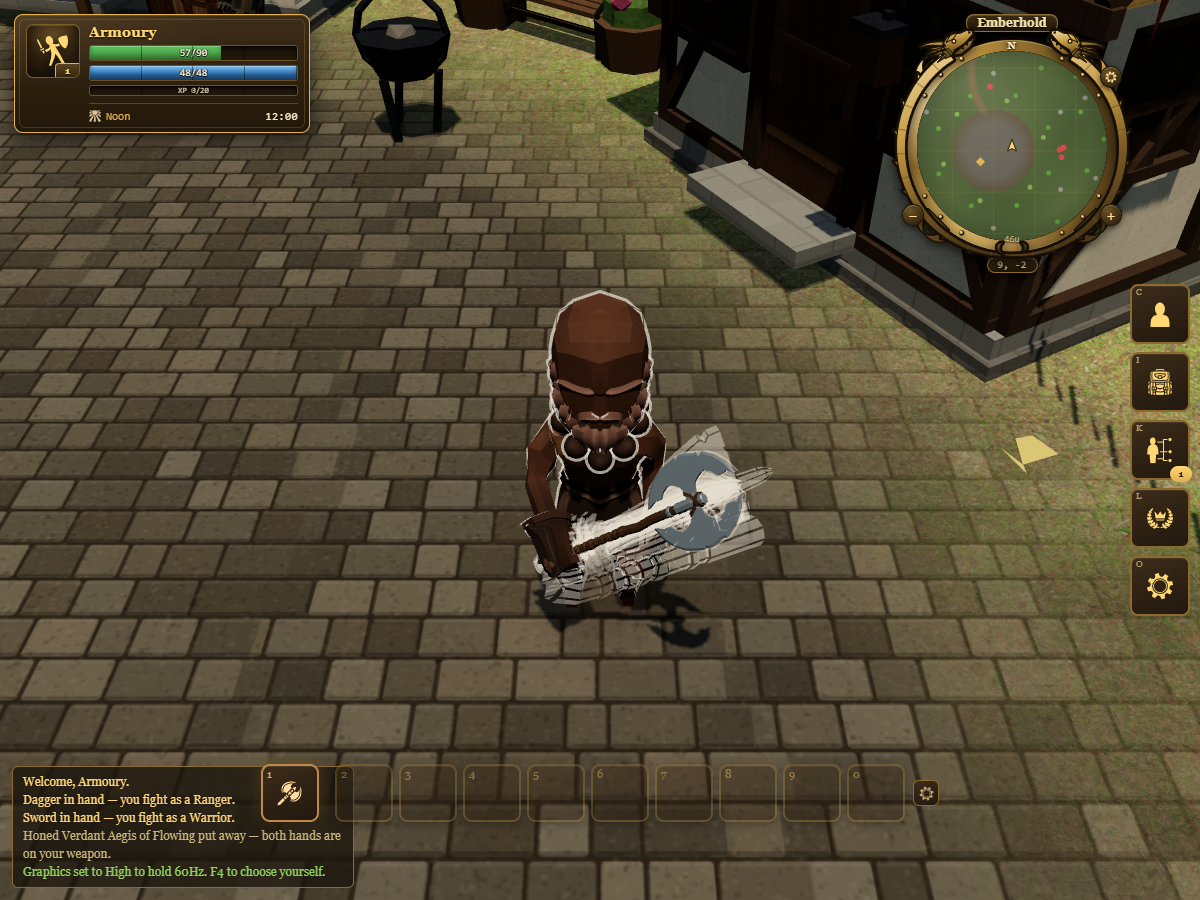
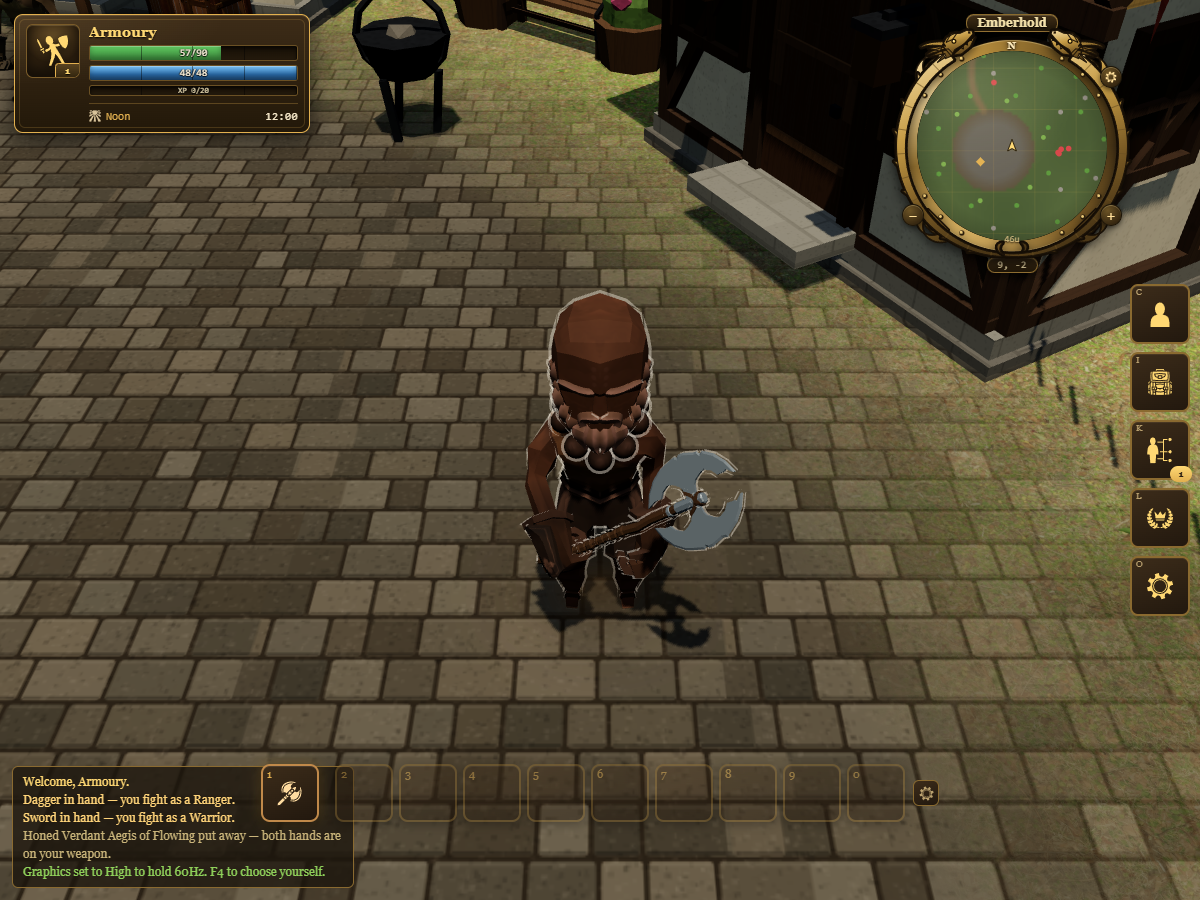
M70.220: the wizard staff was held by its head
Measured both poses across all 29 weapon models. Idle: nothing points at its
owner. Swing: 18 of 23 do at some point, which is the wind-up — every melee
weapon shares one clip and they bottom out together between -0.78 and -0.87,
the donor sword included, so no weapon is an outlier there.

In idle one is. Every weapon carries its far end up and away at up ~ +0.5;
rig:Wizard/Wizard_Staff read -0.84, hanging down with the orb at the fist and
the butt pointing at the floor.

The cause: donorGrip takes the socket from Warrior_Sword, so every right-hand
weapon parents to the Warrior's bone, and a rig: model keeps its own local
transform instead of being re-fitted. That is right for the Warrior's own
sword and an assumption for anything harvested off another body. The Ranger's
bow survives the move; the Wizard's staff does not.

Flipped via RIG_FLIP rather than re-fitted, since fitToGrip would also
renormalise its length and the mesh is otherwise correct. Now +0.55 up, in
line with every other weapon. Three bases use the model and four wands are
built from it.

The contact sheet that showed it was unusable until M70.219: captured while
hulls still accumulated, the staff frame was buried under stale silhouettes.

Suite 45/45.

diff --git a/client/src/three/gear.ts b/client/src/three/gear.ts
@@ -732,6 +732,17 @@ export async function buildHeldItem(
 }
 
 /**
+ * Rig-harvested meshes that need turning end for end, and the axis to turn on.
+ *
+ * See the note where this is applied. Only meshes taken off a body OTHER than
+ * the grip donor can need it, and only when that body's socket disagrees with
+ * the Warrior's.
+ */
+const RIG_FLIP: Record<string, [number, number, number]> = {
+  "rig:Wizard/Wizard_Staff": [1, 0, 0],
+};
+
+/**
  * Length relative to the donor sword, per weapon family.
  *
  * See the note where this is applied. `fitToGrip` deliberately gives every
@@ -786,6 +797,28 @@ async function makeHeldItem(
     mesh.position.copy(donor.position);
     mesh.quaternion.copy(donor.quaternion);
     mesh.scale.copy(donor.scale);
+    // A HARVESTED MESH KEEPS A TRANSFORM AUTHORED FOR ITS OWN RIG, AND WE HANG
+    // IT ON SOMEBODY ELSE'S BONE.
+    //
+    // `donorGrip` takes the socket from `Warrior_Sword`, so every right-hand
+    // weapon is parented to the WARRIOR's weapon bone. That is exactly right for
+    // the Warrior's own sword, whose local transform was authored against it,
+    // and it is an assumption for anything harvested off another body: the
+    // Wizard's staff and the Ranger's bow carry transforms that mean something
+    // relative to THEIR sockets.
+    //
+    // The Wizard's staff does not survive the move. Measured across all 29
+    // models, every weapon in the game points its far end up and away — an `up`
+    // component around +0.5 — and this one alone reads -0.84: it hangs downward
+    // with the ORB at the fist and the plain butt pointing out at the floor.
+    // Held by the head, business end at its owner, which is what "the blade was
+    // facing the player" describes.
+    //
+    // Flipped end for end here rather than by re-fitting it like a
+    // `weapons/...` model, because `fitToGrip` would also renormalise its length
+    // and this mesh is otherwise correct — it is one axis, not a bad import.
+    const flip = RIG_FLIP[base.art.model];
+    if (flip) mesh.rotateOnAxis(new THREE.Vector3(flip[0], flip[1], flip[2]), Math.PI);
   } else if (base.art.model) {
     const proto = await loadModel(base.art.model);
     const donor = findMesh(proto, "") ?? firstMesh(proto);

diff --git a/PLAN.md b/PLAN.md
@@ -22119,3 +22119,42 @@ needed a SWAP, and every capture tool here was built to avoid confounding state
 rather than to create it. `ghostswap.mjs` now does the opposite deliberately.
 
 Suite 45/45.
+
+**Phase 70 M70.220 — the staff was held by its head.** The orientation question,
+finally answered, and the answer was one model rather than the system.
+
+TWO POSES, MEASURED. Idle: no weapon's far end points at its owner. Swing:
+eighteen of twenty-three do at some point — and that is NOT a fault. Every melee
+weapon shares one attack clip and they all bottom out together between -0.78 and
+-0.87, the donor `rig:Warrior/Warrior_Sword` among them at -0.81. That is the
+wind-up. Bows never go backwards because a bow is not swung. A metric that
+cannot tell a wind-up from a bad socket says nothing on its own; what it CAN say
+is whether any weapon is an outlier against its peers, and in the swing none is.
+
+IN IDLE, ONE IS. Every weapon in the game carries its far end up and away, `up`
+around +0.5. `rig:Wizard/Wizard_Staff` read -0.84: hanging downward with the ORB
+AT THE FIST and the plain butt pointing at the floor. Held by the head, business
+end at its owner — which is what "the blade was facing the player" describes.
+
+THE CAUSE IS STRUCTURAL AND WORTH KNOWING. `donorGrip` takes the socket from
+`Warrior_Sword`, so every right-hand weapon parents to the WARRIOR's weapon
+bone. A `rig:` model keeps its own local transform rather than being re-fitted —
+correct for the Warrior's own sword, whose transform was authored against that
+bone, and an assumption for anything harvested off another body. The Wizard's
+staff and the Ranger's bow carry transforms that mean something relative to
+THEIR sockets. The bow survives the move; the staff does not.
+
+Flipped end for end through `RIG_FLIP` rather than re-fitted like a `weapons/`
+model, because `fitToGrip` would also renormalise its length and this mesh is
+otherwise fine — it is one axis, not a bad import. It now measures +0.55 up,
+in line with everything else, and the head no longer sits in the fist. Three
+bases use that model directly and the four wands are built from it, so this is
+seven items.
+
+AND THE CONTACT SHEET IT WAS FOUND IN WAS UNUSABLE UNTIL M70.219 LANDED. The
+first capture of all 29 models was taken while hulls still accumulated across
+swaps, so the staff frame was buried under a white mess of stale silhouettes.
+Re-captured after that fix, it is legible. A survey tool that swaps state is
+only as good as the state it leaves behind.
+
+Suite 45/45.
